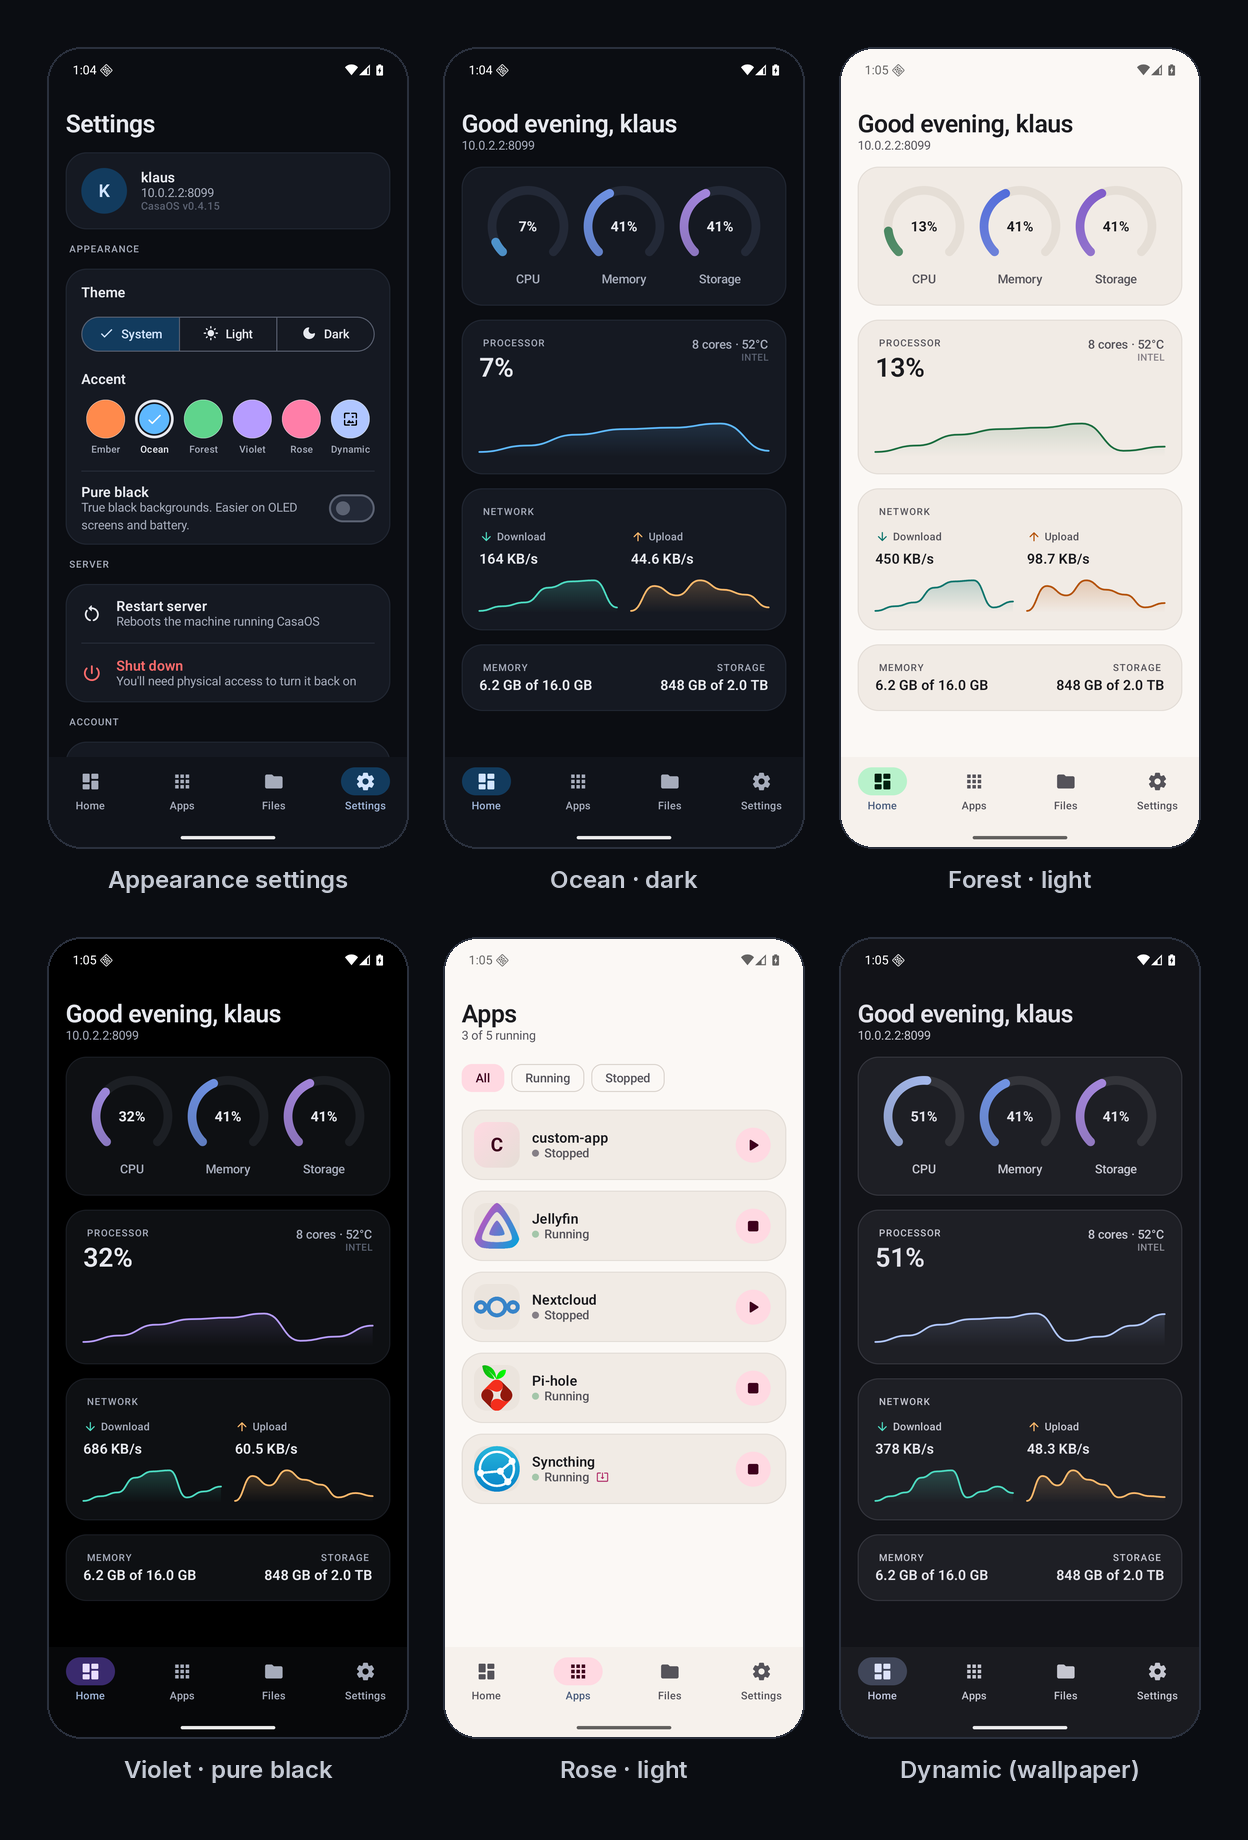
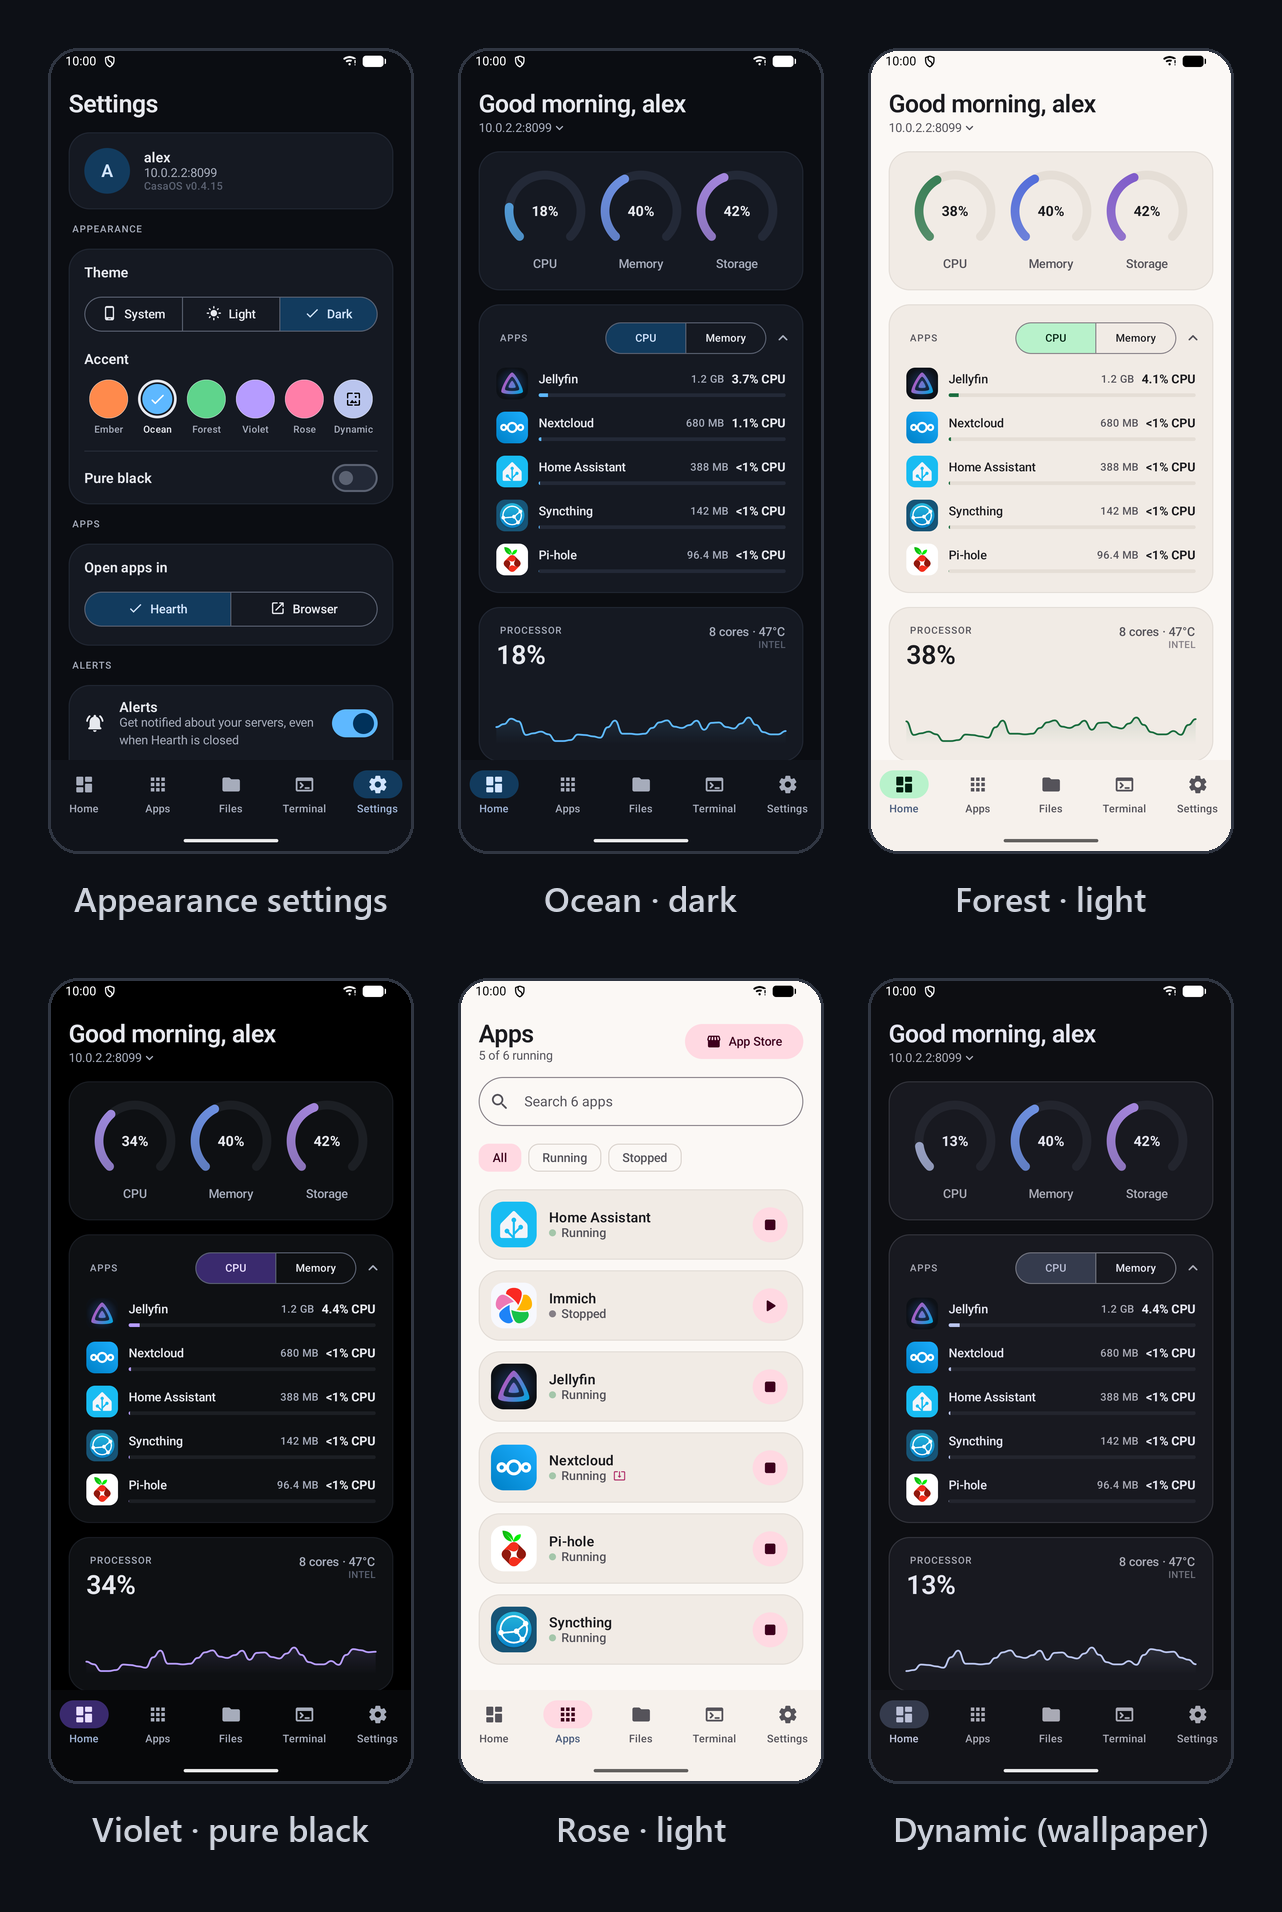
Refresh screenshots and tidy the README and docs
New screenshots from the emulator against a demo server: phone tour, more screens,
themes and tablet. The README is shorter, with install steps and a feature table.
The docs gain the Android version, sorting and hidden files, the drive and version
API calls, the Remember password requirement for per-app usage, and a fuller code layout.

diff --git a/docs/how-it-works.md b/docs/how-it-works.md
@@ -2,6 +2,8 @@
 
 The details behind each feature, how Hearth talks to CasaOS, and what it does to keep your server safe. For a quick overview, see the [README](../README.md).
 
+Hearth runs on Android 10 or later, phones and tablets.
+
 - [Features in depth](#features-in-depth)
 - [How it talks to CasaOS](#how-it-talks-to-casaos)
 - [Security](#security)
@@ -21,7 +23,7 @@ The details behind each feature, how Hearth talks to CasaOS, and what it does to
 
 - Live CPU, memory and storage gauges, CPU history and network throughput. They update every 2.5 s, and only while the screen is visible.
 - The **Storage** card lists each drive: its model, type (HDD, SSD or USB), size and temperature, whether its SMART self-check passes, and how full each of its volumes is. It refreshes every minute, since CasaOS checks every drive to answer. CasaOS reports a drive it can't check (for example when `smartctl` isn't installed) as passing, so "Healthy" means no failure was reported. USB drives and the system drive have no health badge. On servers without this information, Home shows the storage total instead.
-- The **Apps** card shows CPU and memory per app, busiest first, sorted by CPU or memory. CasaOS only reports whole-server totals, so this card reads `docker stats` over the SSH login saved on the Terminal tab. While the card is collapsed, Hearth doesn't poll it and closes its SSH connection.
+- The **Apps** card shows CPU and memory per app, busiest first, sorted by CPU or memory. CasaOS only reports whole-server totals, so this card reads `docker stats` over SSH. It needs you to sign in once on the Terminal tab with **Remember password** on. If your account isn't in the `docker` group, it runs the command with `sudo`. While the card is collapsed, Hearth doesn't poll it and closes its SSH connection.
 
 ### Apps
 
@@ -38,6 +40,7 @@ The details behind each feature, how Hearth talks to CasaOS, and what it does to
 ### Files
 
 - Browse `/DATA`. Photos, videos, songs and text files preview inside Hearth (pinch or double-tap to zoom photos). Other files open in an app you pick.
+- The sort button orders a folder by name, size or date modified. Tap the same choice again to reverse it. Hidden files (names starting with a dot) are hidden unless you turn on **Show hidden files** there.
 - Each item's menu (⋮ or long-press) has **Open with…**, **Share**, **Download**, **Rename**, **Copy to…**, **Move to…** and **Delete**. Downloads go to `Downloads/Hearth` and don't need storage permission. To copy or move, browse to the destination and tap **Paste here**.
 - **+** uploads photos, videos or any files from the phone, and makes new folders. If an uploaded file's name is already taken, you choose to skip it, keep both or replace it.
 - **Search** covers the whole server. CasaOS has no search API, so the first search walks the folders under `/DATA` in the background, and later searches filter that list as you type. Results from the open folder come first, then everywhere else. The walk stops at 100,000 items and shows the best 300 matches. Pull to refresh rescans.
@@ -94,6 +97,8 @@ The details behind each feature, how Hearth talks to CasaOS, and what it does to
 | Login / refresh | `POST /v1/users/login`, `POST /v1/users/refresh` |
 | Finding servers | `GET /v1/users/status` (needs no login), falling back to a `<title>CasaOS` check on `GET /` |
 | Stats | `GET /v1/sys/utilization` |
+| Drives | `GET /v1/disks`, `GET /v1/disks/usb` |
+| CasaOS version | `GET /v1/sys/version/current` |
 | Apps | `GET /v2/app_management/compose`, `PUT .../compose/{id}/status`, `GET .../compose/{id}/logs` |
 | App settings | `GET /v2/app_management/compose/{id}` with `Accept: application/yaml`, `PUT .../compose/{id}?check_port_conflict=true` with the YAML |
 | App version | Switching writes the new tag with the app settings call above. App Store version: `GET /v2/app_management/apps/{id}/stable`; update: `PATCH /v2/app_management/compose/{id}` |
@@ -143,11 +148,16 @@ If the headless emulator crashes with the default software renderer, start it wi
 
 ```
 app/src/main/kotlin/dev/hearth/casaos/
-  data/   CasaClient (OkHttp + token refresh), Parsers (lenient JSON),
-          AppSettings + ComposeYaml (app settings <-> compose YAML),
-          ImageRegistry (an image's versions from Docker Hub / ghcr.io / other registries),
-          SessionStore + SecretBox (saved servers, Keystore encryption), FileDownloader,
-          Alerts (what each background check should notify about)
-  alerts/ the background check (WorkManager), its schedule and notifications
-  ui/     theme, components, and one package per screen (screen + ViewModel together)
+  data/    CasaClient (OkHttp + token refresh), Parsers (lenient JSON),
+           AppSettings + ComposeYaml (app settings <-> compose YAML),
+           ImageRegistry (an image's versions from Docker Hub / ghcr.io / other registries),
+           SessionStore + SecretBox (saved servers, Keystore encryption),
+           Ssh + SshProfileStore (SSH sessions and saved SSH logins), AppUsage (docker stats over SSH),
+           ServerFinder (finding servers on the Wi-Fi), FileSearch, FileSort, FileDownloader,
+           AppLogs, AppLock, Alerts (what each background check should notify about)
+  alerts/  the background check (WorkManager), its schedule and notifications
+  widget/  the home screen widget (Glance), its settings screen and saved readings
+  ui/      theme, components, and one package per screen (screen + ViewModel together)
 ```
+
+Unit tests are in `app/src/test/kotlin/dev/hearth/casaos/`. They cover the parsers, the API client (against a mock HTTP server), the SSH shell (against an in-process SSH server), alerts, search, sorting, the app lock and more.

diff --git a/README.md b/README.md
@@ -1,35 +1,53 @@
 # Hearth
 
-A native Android app for [CasaOS](https://casaos.io). Check your server's stats, manage apps, browse files and open a terminal, all from your phone.
+A native Android app for [CasaOS](https://casaos.io). Check your server, manage your apps, browse your files and open a terminal, all from your phone.
 
-![App tour](docs/screenshots/tour.png)
+![Hearth on a phone](docs/screenshots/tour.png)
+
+## Install
+
+Download the latest APK from [Releases](../../releases) and open it on your phone. Hearth needs Android 10 or later.
+
+Sign in with your server's address (for example `192.168.1.20` or `casaos.local`) and the same login you use for the CasaOS dashboard. Hearth can also find CasaOS servers on your Wi-Fi for you.
 
 ## Features
 
-- **Home**: live CPU, memory, storage and network stats, CPU and memory for each app, and each drive with its health and free space
-- **Apps**: start, stop and update apps, edit their settings, switch versions and view logs
-- **App Store**: browse and install apps from your server's stores
-- **Files**: browse, preview, upload, download and search everything on the server, sorted by name, size or date
-- **Terminal**: an SSH shell with a one-tap server update
-- **Multiple servers**: save several servers and switch between them
-- **Alerts**: optional notifications when a server goes offline, storage passes 90%, an app stops unexpectedly or app updates are available, even when Hearth is closed
-- **Lock**: optional fingerprint, face or PIN lock
-- **Widget**: your server's stats on the home screen
-- **Themes**: light, dark, pure black and six accent colors
-- **Tablets and landscape**: a side rail and wider layouts on big screens
+| | |
+| --- | --- |
+| **Home** | Live CPU, memory, network and storage, how much each app uses, and every drive with its health and free space |
+| **Apps** | Start, stop, restart and update apps, change their settings or version, and read their logs live |
+| **App Store** | Browse and install apps from your server's stores |
+| **Files** | Browse, preview, upload, download, share and search everything on the server |
+| **Terminal** | An SSH shell with extra keys and a one-tap server update |
+| **Alerts** | Optional notifications when a server goes offline, storage is nearly full, an app stops or an update is out |
+| **Servers** | Save several servers and switch between them |
+| **Lock** | Optional fingerprint, face or PIN lock |
+| **Widget** | Your server's stats on the home screen |
+| **Themes** | System, light or dark, pure black, and six accent colors |
+| **Tablets** | A side rail and wider layouts on big screens and in landscape |
+
+![More screens](docs/screenshots/more.png)
 
 ![Themes](docs/screenshots/themes.png)
 
-## Build
+![Hearth on a tablet](docs/screenshots/tablet.png)
 
-Open the project in Android Studio, or from the command line:
+## Security
+
+CasaOS uses plain HTTP by default, so your password isn't encrypted on the network. Use Hearth on your home network, or connect through a VPN such as Tailscale or WireGuard when you're away.
+
+Your logins are stored encrypted on the phone, and the terminal uses SSH, which is always encrypted.
+
+## Build it yourself
+
+Open the project in Android Studio and press **Run**, or from the command line:
 
 ```
 ./gradlew :app:assembleDebug
 ```
 
-For setup details, how each feature works, the CasaOS API calls and security notes, see [How Hearth works](docs/how-it-works.md).
+## Learn more
 
-## Security
+[How Hearth works](docs/how-it-works.md) explains each feature in detail, the CasaOS API calls Hearth makes, its security measures, and how to build and test it.
 
-CasaOS uses plain HTTP by default, so your password isn't encrypted on the network. Stay on your home network or use a VPN when you're away.
+Hearth is an unofficial app and isn't affiliated with CasaOS or IceWhale.
